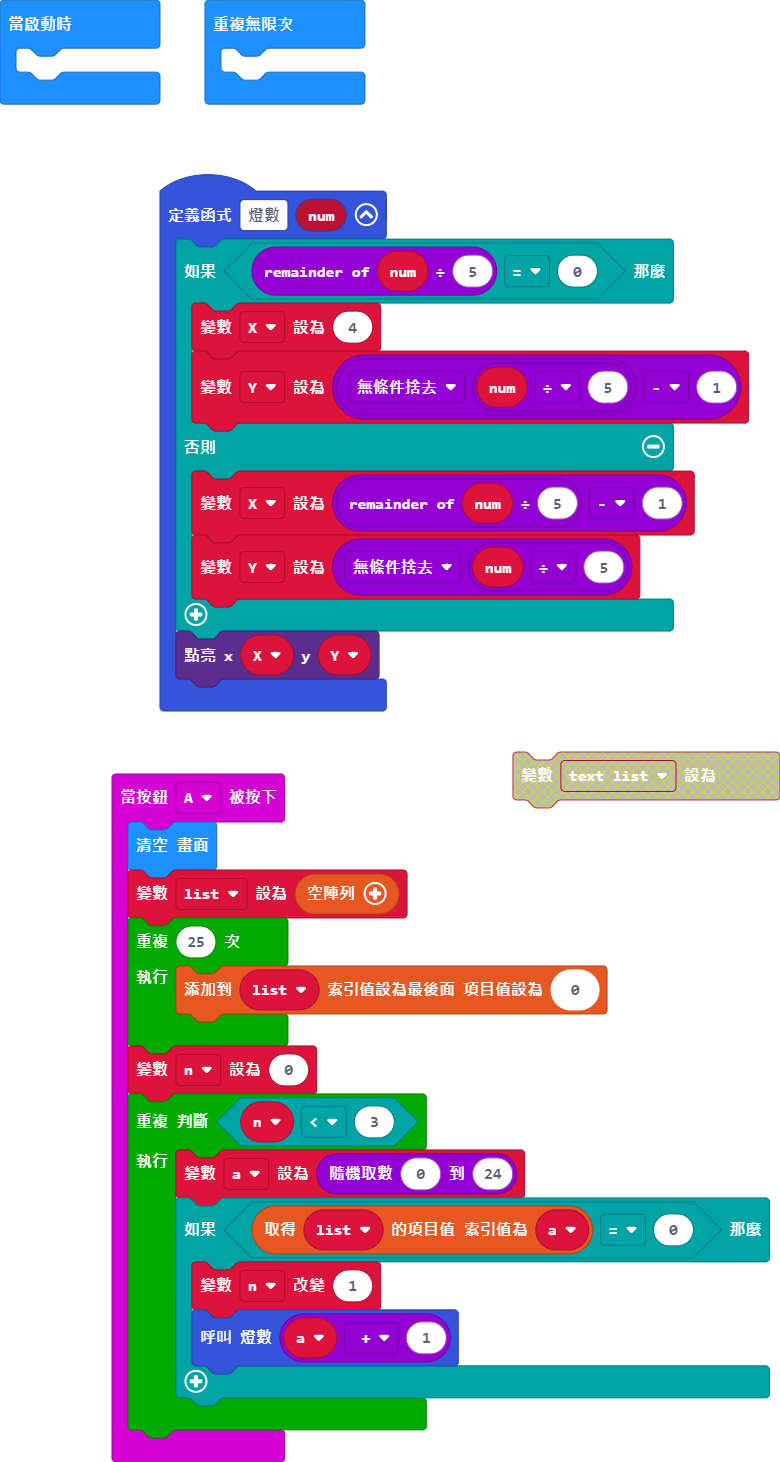
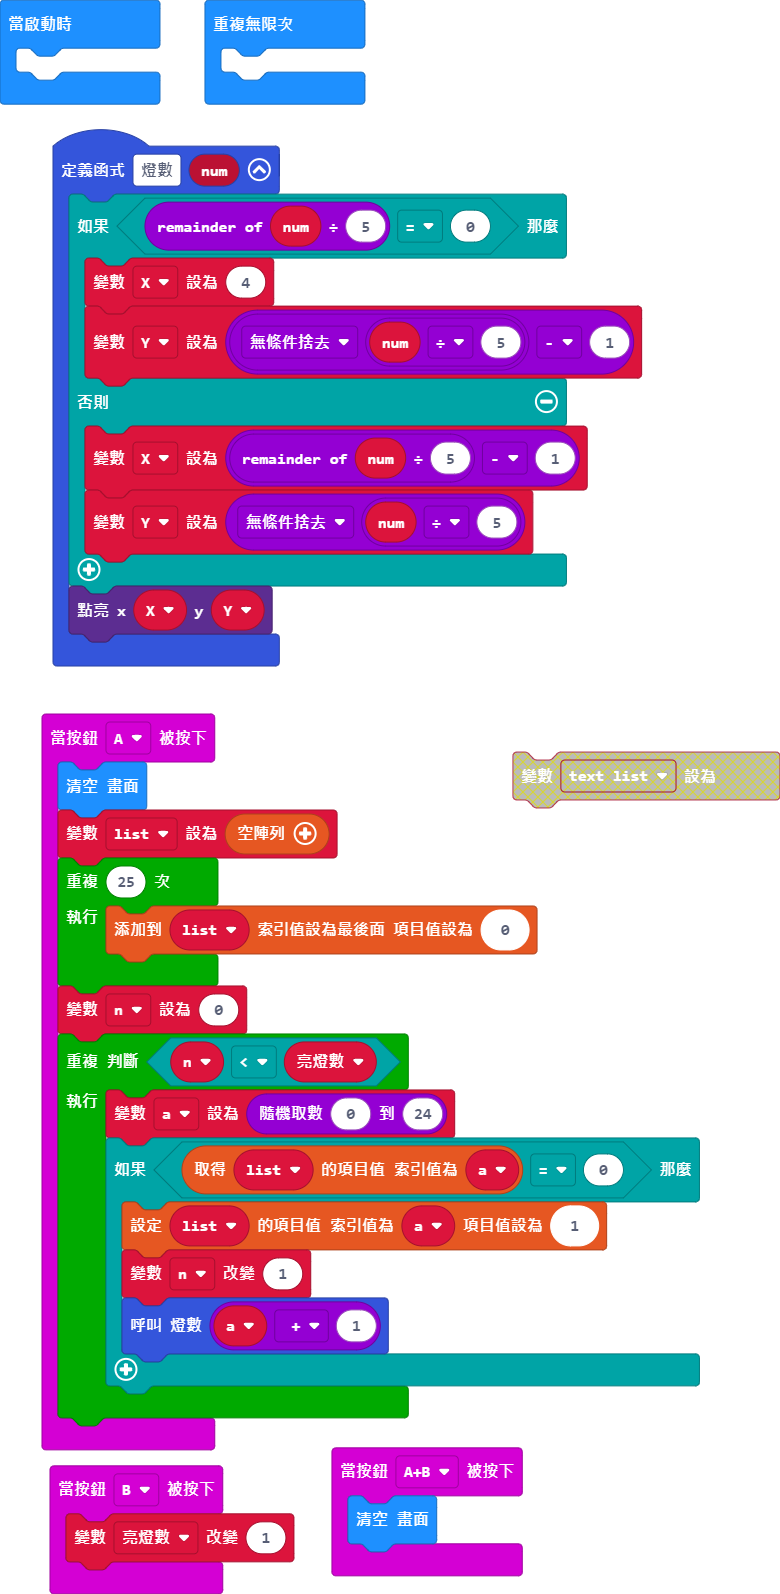
更新 main.blocks, main.ts

diff --git a/main.ts b/main.ts
@@ -2,6 +2,7 @@ let X = 0
 let Y = 0
 let list: number[] = []
 let n = 0
+let 亮燈數 = 0
 let a = 0
 function 燈數 (num: number) {
     if (num % 5 == 0) {
@@ -20,13 +21,20 @@ input.onButtonPressed(Button.A, function () {
         list.push(0)
     }
     n = 0
-    while (n < 3) {
+    while (n < 亮燈數) {
         a = randint(0, 24)
         if (list[a] == 0) {
+            list[a] = 1
             n += 1
             燈數(a + 1)
         }
     }
+})
+input.onButtonPressed(Button.AB, function () {
+    basic.clearScreen()
+})
+input.onButtonPressed(Button.B, function () {
+    亮燈數 += 1
 })
 basic.forever(function () {
 	
